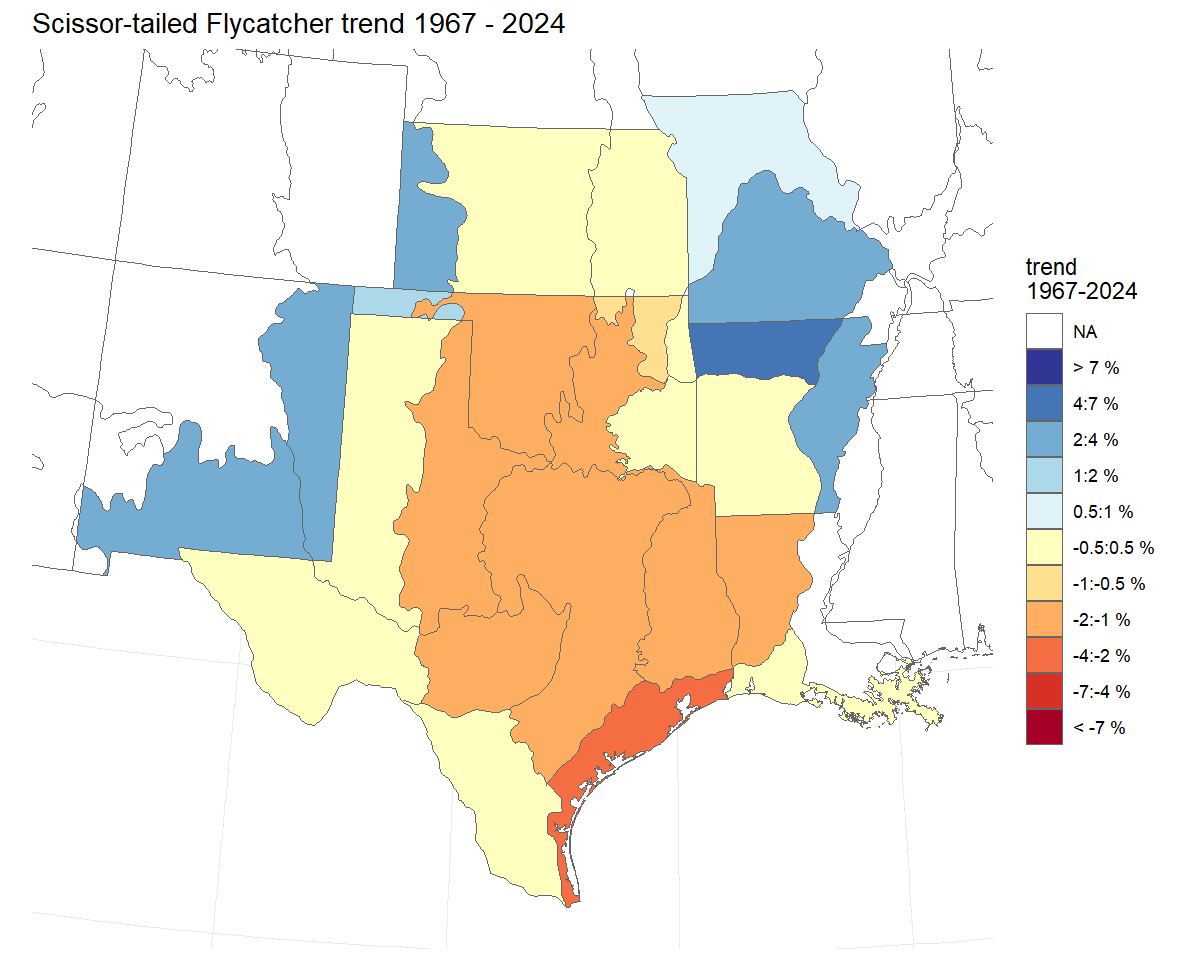
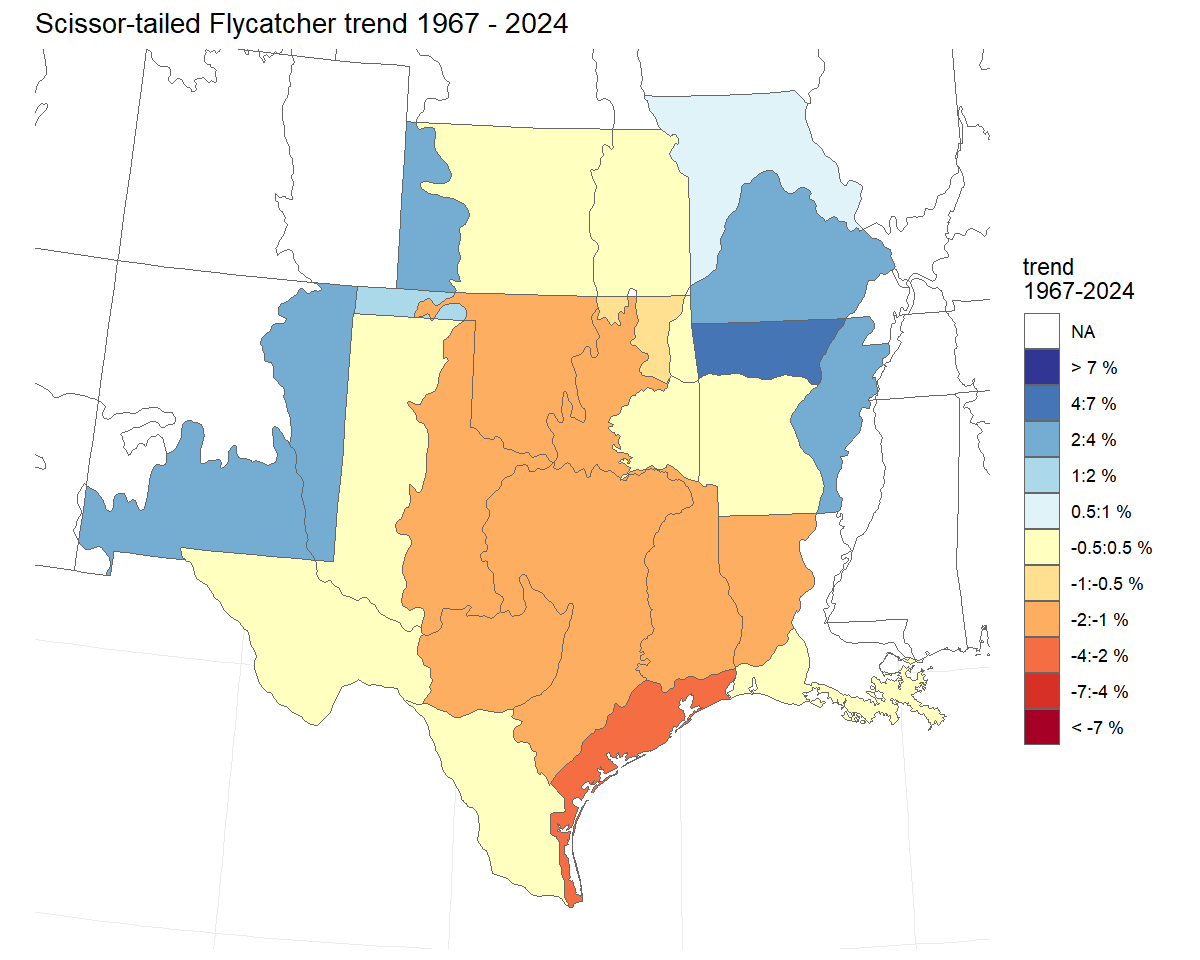
updating the readme and vignette before new release

diff --git a/README.md b/README.md
@@ -9,7 +9,7 @@
 
 
 
-# bbsBayes2 1.1.3.3 January 29, 2026 - Includes 2024 BBS data (1.1.3) and new stratifications, and improved sampling of contrained random effects (including spatial variation)
+# bbsBayes2 1.2026.0 Released June, 2026 - Access to 2026 data release.
 
 Details on new releases below. 
 
@@ -81,6 +81,12 @@ NOTE: bbsBayes2 is supported by a small team of committed researchers with limit
 ```{r}
 pak::pkg_install("bbsBayes/bbsBayes2@dev")
 ```
+# bbsBayes2 1.2026.0 Released June, 2026 - Access to 2026 data release.
+
+-   Updated to access the most recent data release
+-   Note the new approach to bbsBayes2 version names to include the most recent release year
+
+
 # bbsBayes2 1.1.3.4 Released February, 2026 - Updating example data and latlong stratification.
 
 -   The sample data now include observations from `release = 2025`.